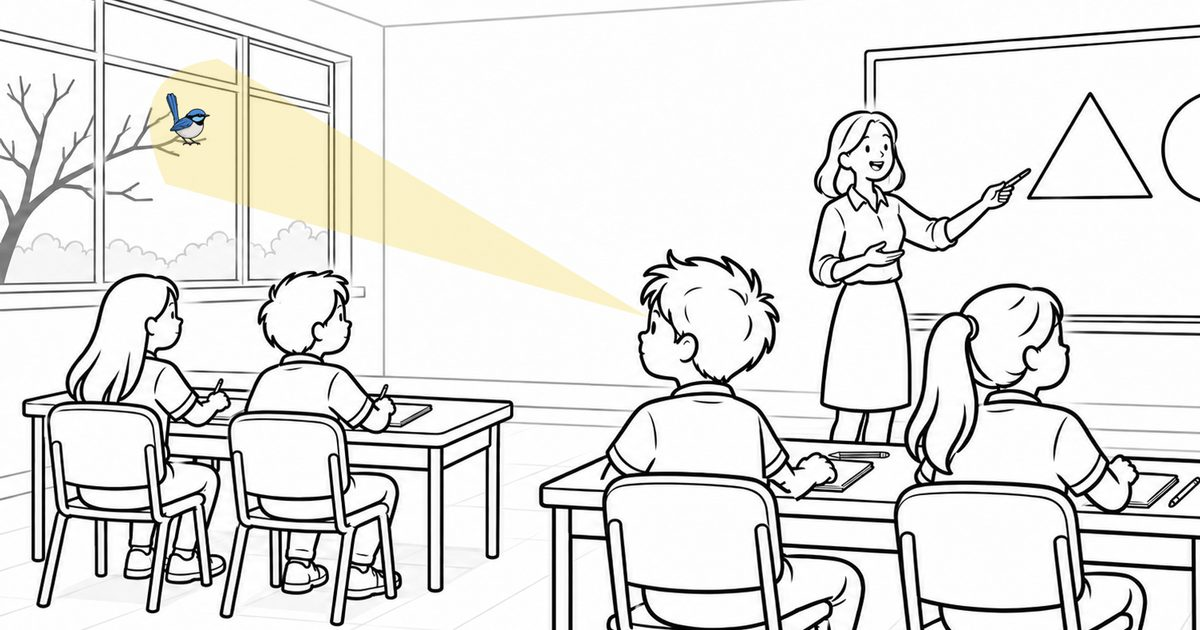
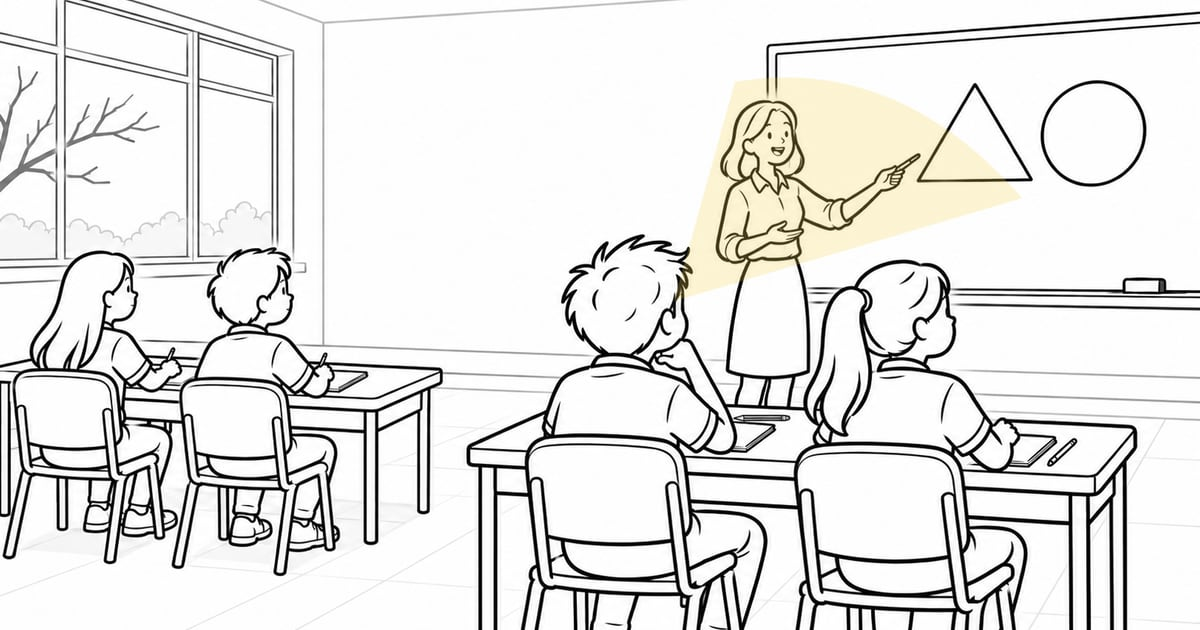
Secrets page: Episode 1 big ideas as full-width cards, spotlight-on-lesson image replaces wren image

diff --git a/secrets-of-how-we-learn.html b/secrets-of-how-we-learn.html
@@ -17,7 +17,7 @@
   <meta property="og:image" content="https://knowledgenest.com.au/assets/og-secrets.jpg">
   <meta property="og:image:width" content="1200">
   <meta property="og:image:height" content="630">
-  <meta property="og:image:alt" content="Illustrated classroom where a boy's attention spotlight moves from the lesson to a blue wren outside the window">
+  <meta property="og:image:alt" content="Illustrated classroom where a yellow attention spotlight rests on the teacher and the shapes on the board">
   <meta name="twitter:card" content="summary_large_image">
   <link rel="icon" href="assets/favicon-32.png" sizes="32x32" type="image/png">
   <link rel="icon" href="assets/favicon-192.png" sizes="192x192" type="image/png">
@@ -25,7 +25,7 @@
   <link rel="preconnect" href="https://fonts.googleapis.com">
   <link rel="preconnect" href="https://fonts.gstatic.com" crossorigin>
   <link rel="stylesheet" href="https://fonts.googleapis.com/css2?family=Lora:ital,wght@0,400;0,500;0,600;0,700;1,400;1,500;1,600&family=Source+Sans+3:ital,wght@0,300;0,400;0,500;0,600;0,700;1,300;1,400&display=swap">
-  <link rel="stylesheet" href="styles.css?v=53">
+  <link rel="stylesheet" href="styles.css?v=54">
   <script>document.documentElement.classList.add('js');</script>
   <script type="application/ld+json">
 {
@@ -201,8 +201,8 @@
         <p>When children understand how learning works, routines stop feeling like rules to follow and start feeling like tools they can use. They become active partners in their own learning.</p>
       </div>
       <figure class="episode-figure">
-        <img src="assets/secrets-attention-spotlight.webp" alt="Illustrated classroom: while the teacher explains shapes on the board, a boy turns to look at a small blue wren outside the window. A yellow spotlight beam shows his attention has moved to the bird." width="1280" height="720" loading="lazy">
-        <figcaption>From Episode 1: attention works like a spotlight - and a little blue wren can move it.</figcaption>
+        <img src="assets/secrets-spotlight-lesson.webp" alt="Illustrated classroom: children sit at their desks facing the front while the teacher explains shapes on the board. A soft yellow spotlight beam rests on the teacher and the shapes, showing where the class is focusing its attention." width="1280" height="720" loading="lazy">
+        <figcaption>From Episode 1: attention works like a spotlight, and we choose where to shine it.</figcaption>
       </figure>
     </div>
   </div>
@@ -270,24 +270,26 @@
 <!-- Episode 1 -->
 <section class="section" id="episode-1">
   <div class="container">
-    <div class="split split-reverse reveal">
+    <div class="split split-reverse episode-intro reveal">
       <div class="split-text">
         <p class="episode-label">Episode 1</p>
         <h2>What's All the Fuss About Attention?</h2>
         <p>Why does your teacher sometimes want everyone quiet, pencils down and facing the front? In the first episode, children follow a maths lesson that is interrupted by a little blue wren landing outside the window, and discover what is really happening to their attention.</p>
-        <h3 class="sr-only">Big ideas in Episode 1</h3>
-        <ol class="big-ideas">
-          <li><strong>Attention is like a spotlight.</strong> There are always things to see, sounds to hear and thoughts to think. We can't focus on everything at once, so we choose what to shine our spotlight on.</li>
-          <li><strong>Classrooms are set up to protect it.</strong> How desks are arranged, where you sit and keeping your desk clear all help to reduce unnecessary distractions.</li>
-          <li><strong>Looking isn't the same as thinking.</strong> You can be looking straight at your teacher while your mind is still out the window with the bird.</li>
-          <li><strong>The right target changes.</strong> Sometimes your spotlight belongs on the teacher's explanation, sometimes on a partner's ideas, and sometimes on your own task.</li>
-          <li><strong>Everyone's attention wanders.</strong> The skill is noticing when it happens and bringing it back.</li>
-        </ol>
       </div>
       <figure class="episode-figure">
         <img src="assets/secrets-eyes-forward.webp" alt="Illustrated classroom: the boy now faces the teacher, but a thought bubble above his head shows he is still thinking about the blue wren outside the window." width="1280" height="720" loading="lazy">
         <figcaption>Eyes to the front, mind still on the bird: looking and paying attention are not the same thing.</figcaption>
       </figure>
+    </div>
+    <div class="big-ideas-panel reveal">
+      <h3 class="big-ideas-title">Five big ideas in Episode 1</h3>
+      <ol class="big-ideas big-ideas-grid">
+        <li><strong>Attention is like a spotlight.</strong> There are always things to see, sounds to hear and thoughts to think. We can't focus on everything at once, so we choose what to shine our spotlight on.</li>
+        <li><strong>Classrooms are set up to protect it.</strong> How desks are arranged, where you sit and keeping your desk clear all help to reduce unnecessary distractions.</li>
+        <li><strong>Looking isn't the same as thinking.</strong> You can be looking straight at your teacher while your mind is still out the window with the bird.</li>
+        <li><strong>The right target changes.</strong> Sometimes your spotlight belongs on the teacher's explanation, sometimes on a partner's ideas, and sometimes on your own task.</li>
+        <li><strong>Everyone's attention wanders.</strong> The skill is noticing when it happens and bringing it back.</li>
+      </ol>
     </div>
   </div>
   <div class="wave-bottom">

diff --git a/styles.css b/styles.css
@@ -1420,3 +1420,28 @@ html { -webkit-text-size-adjust: 100%; text-size-adjust: 100%; }
 /* Ghost button: inset ring instead of border so it matches solid buttons' height */
 .btn-ghost-white { border: none; box-shadow: inset 0 0 0 2px rgba(255,255,255,0.35); }
 .btn-ghost-white:hover { box-shadow: inset 0 0 0 2px white; }
+
+/* Episode 1: intro + image side by side, big ideas as a full-width row of cards */
+.episode-intro { align-items: center; }
+.split.split-reverse.episode-intro .episode-figure { margin-top: 0; }
+.big-ideas-panel { margin-top: 3.5rem; }
+.big-ideas-title { text-align: center; margin-bottom: 1.75rem; }
+.big-ideas-grid {
+  display: flex; flex-wrap: wrap; justify-content: center; gap: 1.25rem; margin: 0;
+}
+.big-ideas-grid li {
+  flex: 0 1 calc((100% - 2.5rem) / 3);
+  background: white; border-radius: 16px; box-shadow: 0 4px 18px var(--shadow);
+  outline: 2px dashed var(--border); outline-offset: -8px;
+  padding: 4.25rem 1.75rem 1.75rem; line-height: 1.6;
+}
+.big-ideas-grid li::before { left: 1.75rem; top: 1.6rem; }
+.big-ideas-grid strong { display: block; margin-bottom: 0.35rem; font-size: 1.1rem; }
+@media (max-width: 900px) {
+  .big-ideas-grid li { flex-basis: calc((100% - 1.25rem) / 2); }
+}
+@media (max-width: 600px) {
+  .big-ideas-panel { margin-top: 2.5rem; }
+  .big-ideas-grid li { flex-basis: 100%; padding: 4rem 1.4rem 1.5rem; }
+  .big-ideas-grid li::before { left: 1.4rem; }
+}

diff --git a/index.html b/index.html
@@ -26,7 +26,7 @@
   <link rel="preconnect" href="https://fonts.googleapis.com">
   <link rel="preconnect" href="https://fonts.gstatic.com" crossorigin>
   <link rel="stylesheet" href="https://fonts.googleapis.com/css2?family=Lora:ital,wght@0,400;0,500;0,600;0,700;1,400;1,500;1,600&family=Source+Sans+3:ital,wght@0,300;0,400;0,500;0,600;0,700;1,300;1,400&display=swap">
-  <link rel="stylesheet" href="styles.css?v=53">
+  <link rel="stylesheet" href="styles.css?v=54">
   <script>document.documentElement.classList.add('js');</script>
   <script type="application/ld+json">
 {
@@ -253,7 +253,7 @@
   <div class="container">
     <div class="split reveal">
       <figure class="episode-figure">
-        <img src="assets/secrets-attention-spotlight.webp" alt="Illustrated classroom: a boy turns from the lesson to look at a blue wren outside the window, with a yellow spotlight showing where his attention has gone." width="1280" height="720" loading="lazy">
+        <img src="assets/secrets-spotlight-lesson.webp" alt="Illustrated classroom: children face the front while the teacher explains shapes on the board, with a soft yellow spotlight showing where their attention is focused." width="1280" height="720" loading="lazy">
       </figure>
       <div class="split-text">
         <p class="episode-label">New curriculum</p>

diff --git a/about.html b/about.html
@@ -25,7 +25,7 @@
   <link rel="preconnect" href="https://fonts.googleapis.com">
   <link rel="preconnect" href="https://fonts.gstatic.com" crossorigin>
   <link rel="stylesheet" href="https://fonts.googleapis.com/css2?family=Lora:ital,wght@0,400;0,500;0,600;0,700;1,400;1,500;1,600&family=Source+Sans+3:ital,wght@0,300;0,400;0,500;0,600;0,700;1,300;1,400&display=swap">
-  <link rel="stylesheet" href="styles.css?v=53">
+  <link rel="stylesheet" href="styles.css?v=54">
   <script>document.documentElement.classList.add('js');</script>
   <script type="application/ld+json">
 {

diff --git a/enquiry.html b/enquiry.html
@@ -25,7 +25,7 @@
   <link rel="preconnect" href="https://fonts.googleapis.com">
   <link rel="preconnect" href="https://fonts.gstatic.com" crossorigin>
   <link rel="stylesheet" href="https://fonts.googleapis.com/css2?family=Lora:ital,wght@0,400;0,500;0,600;0,700;1,400;1,500;1,600&family=Source+Sans+3:ital,wght@0,300;0,400;0,500;0,600;0,700;1,300;1,400&display=swap">
-  <link rel="stylesheet" href="styles.css?v=53">
+  <link rel="stylesheet" href="styles.css?v=54">
   <script>document.documentElement.classList.add('js');</script>
   <script type="application/ld+json">
 {

diff --git a/resources.html b/resources.html
@@ -25,7 +25,7 @@
   <link rel="preconnect" href="https://fonts.googleapis.com">
   <link rel="preconnect" href="https://fonts.gstatic.com" crossorigin>
   <link rel="stylesheet" href="https://fonts.googleapis.com/css2?family=Lora:ital,wght@0,400;0,500;0,600;0,700;1,400;1,500;1,600&family=Source+Sans+3:ital,wght@0,300;0,400;0,500;0,600;0,700;1,300;1,400&display=swap">
-  <link rel="stylesheet" href="styles.css?v=53">
+  <link rel="stylesheet" href="styles.css?v=54">
   <script>document.documentElement.classList.add('js');</script>
   <script type="application/ld+json">
 {

diff --git a/services.html b/services.html
@@ -25,7 +25,7 @@
   <link rel="preconnect" href="https://fonts.googleapis.com">
   <link rel="preconnect" href="https://fonts.gstatic.com" crossorigin>
   <link rel="stylesheet" href="https://fonts.googleapis.com/css2?family=Lora:ital,wght@0,400;0,500;0,600;0,700;1,400;1,500;1,600&family=Source+Sans+3:ital,wght@0,300;0,400;0,500;0,600;0,700;1,300;1,400&display=swap">
-  <link rel="stylesheet" href="styles.css?v=53">
+  <link rel="stylesheet" href="styles.css?v=54">
   <script>document.documentElement.classList.add('js');</script>
   <script type="application/ld+json">
 {
